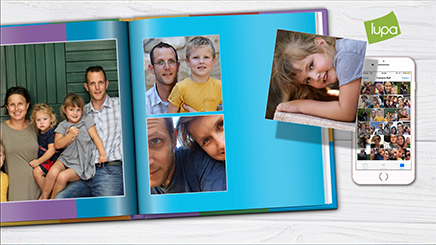
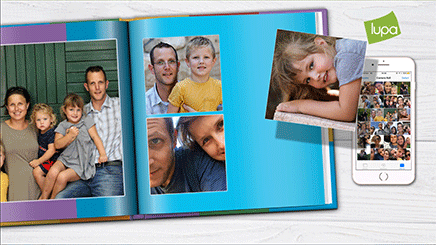
ok
ok

diff --git a/index.html b/index.html
@@ -192,7 +192,7 @@
 					</figure>
 
 			<figure class="digital print">
-						<a href="" class="thumb"><img src="img/dummies/slides/Lupa/LupaIsraeliVacation_970.gif" alt="alt" style="width:436px; height: auto !important" width="436" /></a>
+						<a href="" class="thumb"><img src="img/dummies/slides/Lupa/LupaIsraeliVacation_436.gif" alt="alt" style="width:436px; height: auto !important" width="436" /></a>
 						<figcaption>
 							<a href="Lupa.html" ><h3 class="heading">Lupa<br />Vacation Book Facebook Ads</h3></a>
 							<div class="portfolio-cat">
@@ -245,7 +245,7 @@
 					</figure>
 
 			<figure class="digital print">
-						<a href="Lupa.html" class="thumb"><img src="img/dummies/slides/Lupa/Lupa_Baligam_May17.gif" alt="alt" style="width:436px; height: auto !important" width="436" /></a>
+						<a href="Lupa.html" class="thumb"><img src="img/dummies/slides/Lupa/Lupa_Baligam_May17_436.gif" alt="alt" style="width:436px; height: auto !important" width="436" /></a>
 						<figcaption>
 							<a href="Lupa.html" ><h3 class="heading">Lupa - Baligam Facebook Ads</h3></a>
 							<div class="portfolio-cat">
